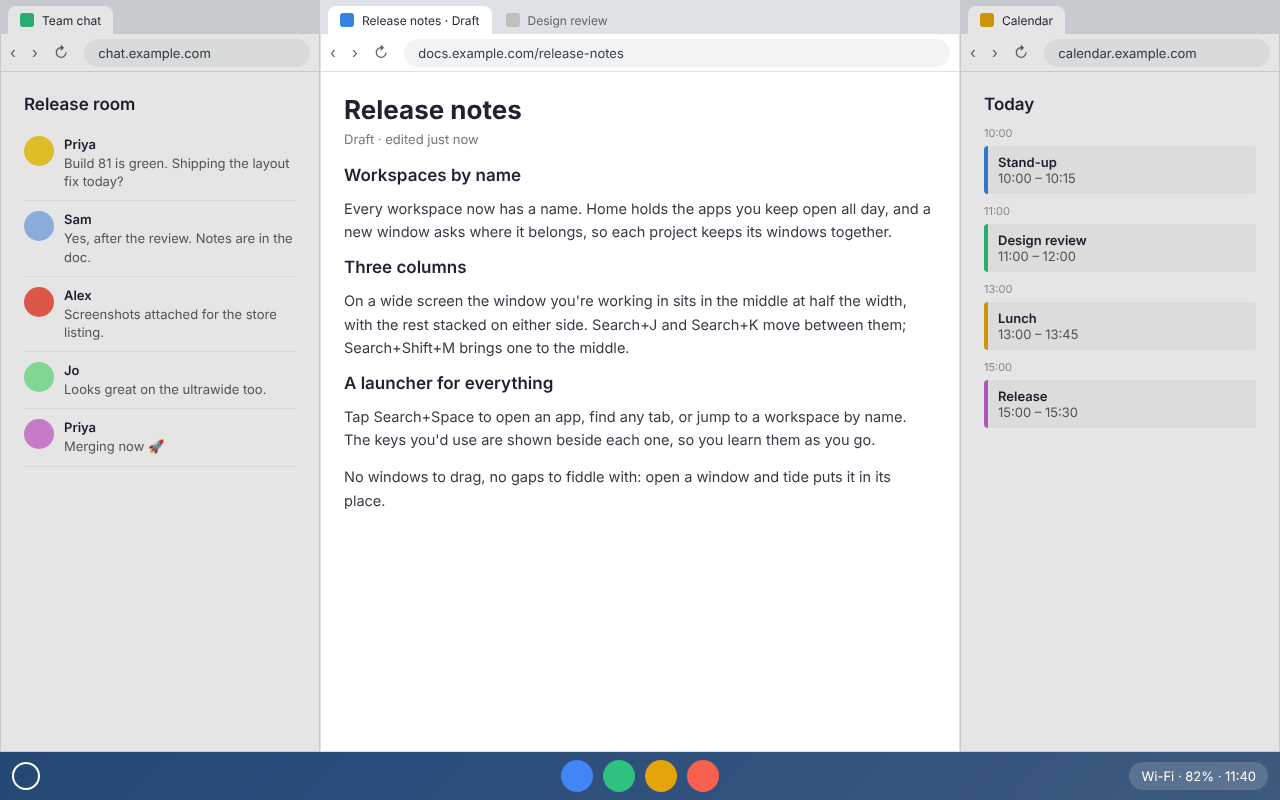
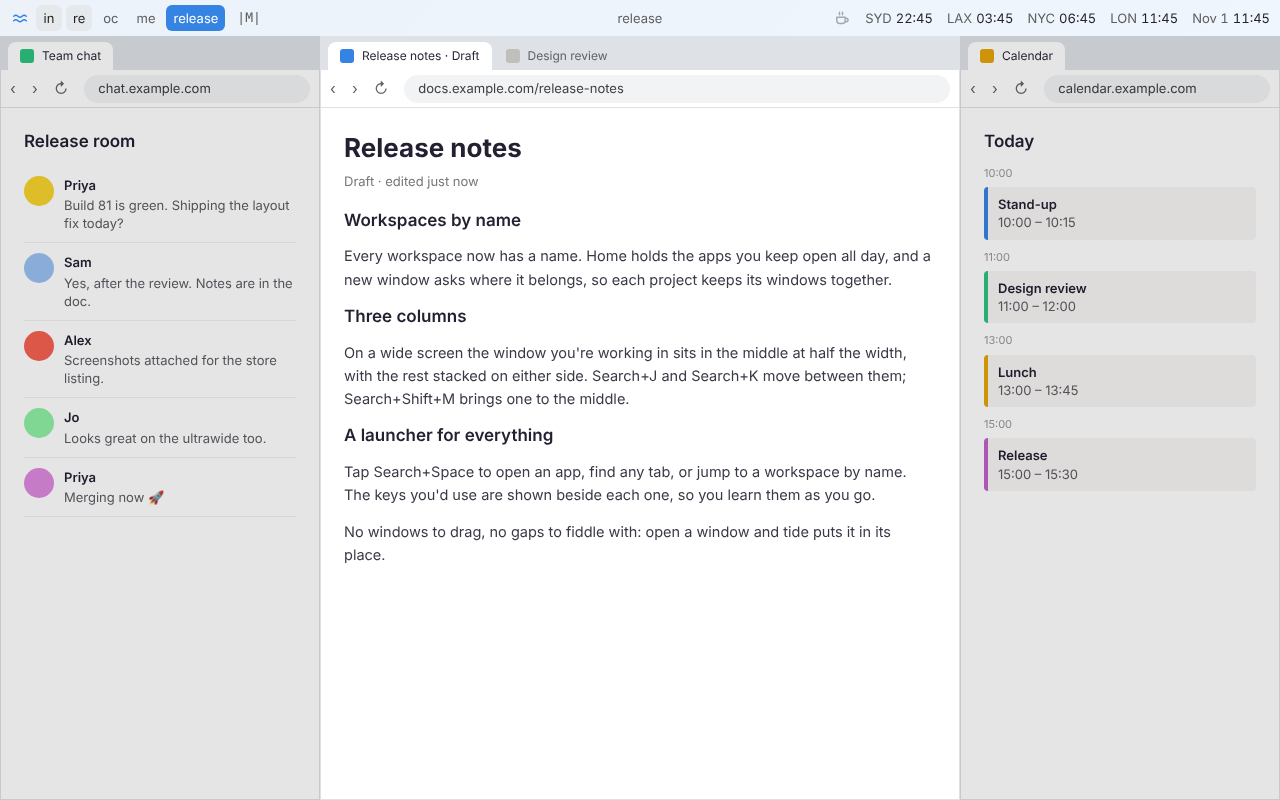
Show tide's bar in the store screenshot, not chromeOS's shelf
The three-column screenshot drew chromeOS's shelf along the bottom, which
says nothing about tide. It now has tide's bar across the top instead,
the dashboard's own markup and src/launcher.css as the extension draws
it: the logo, the workspaces with a named one current, the three-column
symbol, the cup and the clocks. The windows sit below it at the boxes
src/geometry.js arranges for three windows in the 1280x764 left. The
render parks the pointer away from the logo so it doesn't show its hover.

Claude-Session: https://claude.ai/code/session_016zevajgQL522MsCbogqdxR

diff --git a/store/screenshot-threecol.html b/store/screenshot-threecol.html
@@ -3,16 +3,20 @@
 <head>
 <meta charset="utf-8">
 <!-- A store screenshot, 1280x800: three Chrome windows in tide's
-     three-column layout on a chromeOS screen. It's composed, not captured:
-     each window sits at the box src/geometry.js arranges for three windows
-     in threecol on a 1280x752 work area (the master 640 px in the middle,
-     the stack 320 px either side), above chromeOS's 48 px shelf. -->
+     three-column layout under tide's bar. It's composed, not captured: the
+     bar is the dashboard's own markup and src/launcher.css, as the extension
+     draws it, and each window sits at the box src/geometry.js arranges for
+     three windows in threecol on the 1280x764 below it (the master 640 px
+     in the middle, the stack 320 px either side). -->
+<link rel="stylesheet" href="../src/launcher.css">
 <link rel="stylesheet" href="https://fonts.googleapis.com/css2?family=Inter:wght@400;500;600;700&display=block">
 <style>
   * { box-sizing: border-box; }
-  body { margin: 0; width: 1280px; height: 800px; overflow: hidden; font-family: Inter, sans-serif; color: #241f31;
+  html, body { height: 800px; }
+  body { margin: 0; width: 1280px; height: 800px; overflow: hidden; font-family: Inter, sans-serif; color: #241f31; display: block;
     background: linear-gradient(135deg, #1a5fb4, #3584e4 55%, #62a0ea); position: relative; }
-  .win { position: absolute; top: 0; height: 752px; background: #fff; display: flex; flex-direction: column;
+  .bar { position: absolute; top: 0; left: 0; right: 0; }
+  .win { position: absolute; top: 36px; height: 764px; background: #fff; display: flex; flex-direction: column;
     box-shadow: inset 0 0 0 1px rgba(0,0,0,.12); overflow: hidden; }
   .left { left: 0; width: 320px; } .main { left: 320px; width: 640px; } .right { left: 960px; width: 320px; }
   /* Unfocused windows carry tide's optional dim. */
@@ -22,7 +26,7 @@
     gap: 8px; font-size: 12px; max-width: 220px; white-space: nowrap; overflow: hidden; text-overflow: ellipsis; }
   .tab.off { background: transparent; color: #5f6368; }
   .fav { width: 14px; height: 14px; border-radius: 3px; flex: none; }
-  .bar { height: 38px; display: flex; align-items: center; gap: 10px; padding: 0 10px; border-bottom: 1px solid #e0e0e0; flex: none; }
+  .addr { height: 38px; display: flex; align-items: center; gap: 10px; padding: 0 10px; border-bottom: 1px solid #e0e0e0; flex: none; }
   .nav { color: #5f6368; font-size: 15px; letter-spacing: 6px; }
   .url { flex: 1; height: 28px; border-radius: 14px; background: #f1f3f4; font-size: 13px; color: #3c4043;
     display: flex; align-items: center; padding: 0 14px; white-space: nowrap; overflow: hidden; }
@@ -36,18 +40,19 @@
   .ev { border-left: 4px solid; border-radius: 4px; padding: 8px 10px; margin-bottom: 10px; font-size: 13px; background: #f6f5f4; }
   .ev b { display: block; font-weight: 600; } .ev span { color: #5e5c64; }
   .hour { font-size: 11px; color: #9a9996; margin: 10px 0 6px; }
-  .shelf { position: absolute; left: 0; right: 0; bottom: 0; height: 48px; background: rgba(32, 33, 36, .55);
-    display: flex; align-items: center; justify-content: center; gap: 10px; }
-  .app { width: 32px; height: 32px; border-radius: 50%; }
-  .tray { position: absolute; right: 12px; top: 10px; height: 28px; padding: 0 12px; border-radius: 14px; background: rgba(255,255,255,.16);
-    color: #fff; font-size: 13px; display: flex; align-items: center; gap: 10px; }
-  .launcher { position: absolute; left: 12px; top: 10px; width: 28px; height: 28px; border-radius: 50%; border: 2.5px solid #fff; }
 </style>
 </head>
 <body>
+<header class="bar">
+<button id="logo" type="button" aria-label="Launcher" title="Launcher"><svg viewBox="0 0 16 16" width="16" height="16" aria-hidden="true"><path fill="none" stroke="currentColor" stroke-width="1.5" stroke-linecap="round" stroke-linejoin="round" d="M1.75 6.25q2.083-2 4.167 0t4.166 0t4.167 0"></path><path fill="none" stroke="currentColor" stroke-width="1.5" stroke-linecap="round" stroke-linejoin="round" d="M1.75 10.75q2.083-2 4.167 0t4.166 0t4.167 0"></path></svg></button>
+<nav id="workspaces" aria-label="Workspaces"><button class="occupied">in</button><button class="occupied">re</button><button>oc</button><button>me</button><button class="occupied current">release</button><span class="layout">|M|</span></nav>
+<span id="title">release</span>
+<button id="keep-awake" type="button" aria-pressed="false" title="Not keeping awake" aria-label="Keep awake"><svg viewBox="0 0 16 16" width="16" height="16" aria-hidden="true"><path fill="none" stroke="currentColor" stroke-width="1.5" stroke-linejoin="round" d="M2.75 7.25h8.5v3a3.25 3.25 0 0 1-3.25 3.25h-2A3.25 3.25 0 0 1 2.75 10.25z"></path><path fill="none" stroke="currentColor" stroke-width="1.5" d="M11.25 8.25h1a1.75 1.75 0 0 1 0 3.5h-1.25"></path><path fill="none" stroke="currentColor" stroke-width="1.5" stroke-linecap="round" d="M5.5 2.25v2.5M8.5 2.25v2.5"></path></svg></button>
+<ol id="clocks" role="button" tabindex="0" aria-expanded="false" aria-controls="clock-detail" title="Click for each zone's day; scroll to scrub time"><li><span class="label">SYD</span>22:45</li><li><span class="label">LAX</span>03:45</li><li><span class="label">NYC</span>06:45</li><li><span class="label">LON</span>11:45</li><li><span class="label">Nov 1</span>11:45</li></ol>
+</header>
   <div class="win left dim">
     <div class="tabs"><div class="tab"><span class="fav" style="background:#2ec27e"></span>Team chat</div></div>
-    <div class="bar"><span class="nav">‹ › ↻</span><div class="url">chat.example.com</div></div>
+    <div class="addr"><span class="nav">‹ › ↻</span><div class="url">chat.example.com</div></div>
     <div class="page">
       <h2>Release room</h2>
       <div class="item"><span class="av" style="background:#f6d32d"></span><div><div class="who">Priya</div><div class="what">Build 81 is green. Shipping the layout fix today?</div></div></div>
@@ -59,7 +64,7 @@
   </div>
   <div class="win main">
     <div class="tabs"><div class="tab"><span class="fav" style="background:#3584e4"></span>Release notes · Draft</div><div class="tab off"><span class="fav" style="background:#c0bfbc"></span>Design review</div></div>
-    <div class="bar"><span class="nav">‹ › ↻</span><div class="url">docs.example.com/release-notes</div></div>
+    <div class="addr"><span class="nav">‹ › ↻</span><div class="url">docs.example.com/release-notes</div></div>
     <div class="page">
       <h1>Release notes</h1>
       <div class="meta">Draft · edited just now</div>
@@ -74,7 +79,7 @@
   </div>
   <div class="win right dim">
     <div class="tabs"><div class="tab"><span class="fav" style="background:#e5a50a"></span>Calendar</div></div>
-    <div class="bar"><span class="nav">‹ › ↻</span><div class="url">calendar.example.com</div></div>
+    <div class="addr"><span class="nav">‹ › ↻</span><div class="url">calendar.example.com</div></div>
     <div class="page">
       <h2>Today</h2>
       <div class="hour">10:00</div>
@@ -86,12 +91,6 @@
       <div class="hour">15:00</div>
       <div class="ev" style="border-color:#c061cb"><b>Release</b><span>15:00 – 15:30</span></div>
     </div>
-  </div>
-  <div class="shelf">
-    <span class="launcher"></span>
-    <span class="app" style="background:#4285f4"></span><span class="app" style="background:#2ec27e"></span>
-    <span class="app" style="background:#e5a50a"></span><span class="app" style="background:#f66151"></span>
-    <div class="tray">Wi-Fi · 82% · 11:40</div>
   </div>
 </body>
 </html>

diff --git a/scripts/render-promo.js b/scripts/render-promo.js
@@ -43,6 +43,9 @@ try {
     const page = await browser.newPage({ viewport: { width: 1280, height: 800 } });
     await page.goto(`file://${STORE}${file}`);
     await requireInter(page, file, [400, 500, 600, 700]);
+    // The pointer starts at the corner, over the bar's logo, which would
+    // show its hover; park it over the windows instead.
+    await page.mouse.move(640, 600);
     await page.screenshot({ path: `${STORE}${file.replace(/\.html$/, ".png")}` });
     await page.close();
   }

diff --git a/PUBLISHING.md b/PUBLISHING.md
@@ -82,9 +82,10 @@ What the first upload needs:
 - **Screenshots.** At least one, 1280×800 or 640×400. One is done:
   `store/screenshot-threecol.png`, three Chrome windows in the three-column
   layout, the master in the middle at half the width. It's composed, not
-  captured: `store/screenshot-threecol.html` draws each window at the box
-  `src/geometry.js` arranges for three windows in a 1280×752 work area,
-  above chromeOS's shelf, and `make promo` renders it. Real captures from
+  captured: `store/screenshot-threecol.html` draws tide's bar with the
+  dashboard's own markup and `src/launcher.css`, and each window at the box
+  `src/geometry.js` arranges for three windows in the 1280×764 below it,
+  and `make promo` renders it. Real captures from
   the Chromebook are better still. Take them on the
   Chromebook (Search+Ctrl+Show windows takes a screenshot).
 - **A developer account.** Register at the
